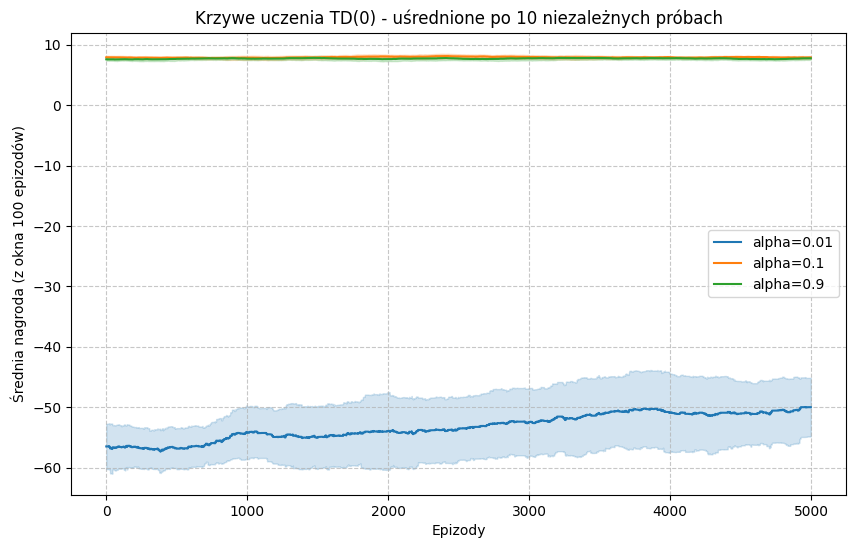
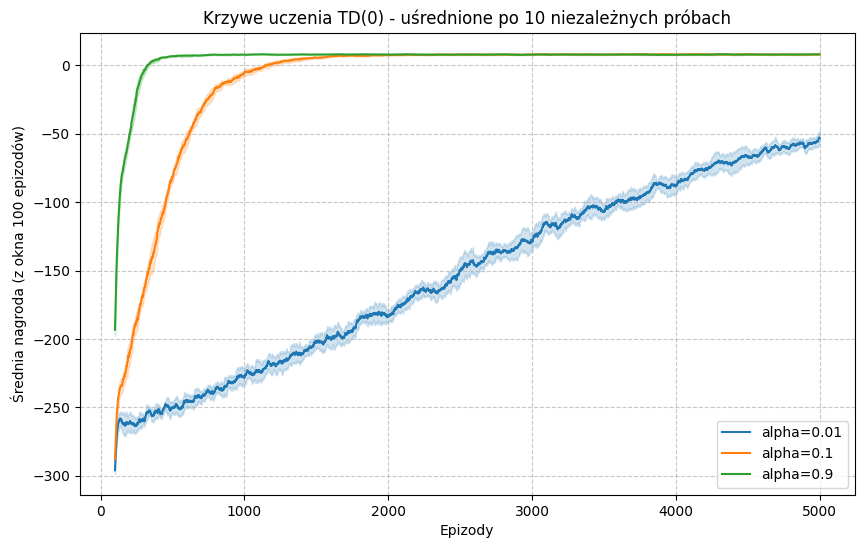
changes

diff --git a/td(0)+taxi/utils.py b/td(0)+taxi/utils.py
@@ -33,14 +33,13 @@ def interact(env, agent, episodes_n = 20000, window = 100):
                 # save final sampled reward
                 samp_rewards.append(samp_reward)
                 break
-
-            if i_episode >= window :
-                # get average reward from last 100 episodes
-                avg_reward = np.mean(samp_rewards)
-                # append to deque
-                avg_rewards.append(avg_reward)
-                if avg_reward > best_avg_reward:
-                    best_avg_reward = avg_reward
+        if i_episode >= window:
+            # get average reward from last "window" episodes
+            avg_reward = np.mean(samp_rewards)
+            # append one point per episode
+            avg_rewards.append(avg_reward)
+            if avg_reward > best_avg_reward:
+                best_avg_reward = avg_reward
 
         # monitor progress
         print("\rEpisode {}/{} || Best average reward {}".format(i_episode, episodes_n, best_avg_reward), end="")

diff --git a/td(0)+taxi/main.py b/td(0)+taxi/main.py
@@ -36,7 +36,7 @@ def main():
     for a in alphas:
         mean_data = results_mean[a]
         std_data = results_std[a]
-        x_axis = np.arange(len(mean_data))
+        x_axis = np.arange(100, 100 + len(mean_data))
         
         line, = plt.plot(x_axis, mean_data, label=f'alpha={a}')
         plt.fill_between(x_axis, mean_data - std_data, mean_data + std_data, alpha=0.2, color=line.get_color())

diff --git a/td(0)+taxi/td0_taxi.py b/td(0)+taxi/td0_taxi.py
@@ -42,5 +42,4 @@ class Agent:
 
         new_value = old_value + self.alpha * (reward + (self.gamma * next_max) - old_value)
 
-        # Aktualizacja tablicy
         self.Q[state][action] = new_value
